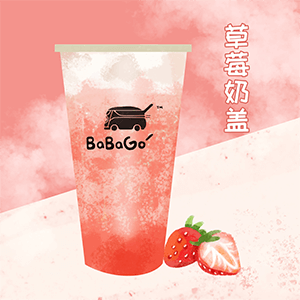
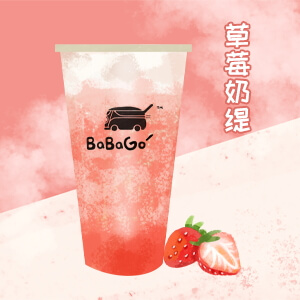
添加在线客服,图片替换

diff --git a/index.html b/index.html
@@ -198,16 +198,14 @@
 						<!-- Owl-Carousel -->
 						<div id="owl-demo" class="owl-carousel owl-theme text-center agileinfo-gallery-row">
 							<a class="item g1">
-								<img class="lazyOwl img-fluid" src="images/brand/babago.jpg" title="Ice Cream"
-									alt="" />
+								<img class="lazyOwl img-fluid" src="images/brand/babago.jpg" title="Ice Cream" alt="" />
 							</a>
 							<a class="item g1">
 								<img class="lazyOwl img-fluid" src="images/brand/partner.jpg" title="Ice Cream"
 									alt="" />
 							</a>
 							<a class="item g1">
-								<img class="lazyOwl img-fluid" src="images/brand/way.jpg" title="Ice Cream"
-									alt="" />
+								<img class="lazyOwl img-fluid" src="images/brand/way.jpg" title="Ice Cream" alt="" />
 							</a>
 						</div>
 					</div>
@@ -255,7 +253,8 @@
 					<div class="d-flex box-b  py-5 px-3">
 						<div class="col-9  text-right">
 							<h3>标准化训练制度体系</h3>
-							<p class="mt-3 text-left"> 强大的企业文化作为核心，标准化的训练模式，严格训练要求，从员工的形象，服务礼仪、品牌管理、产品制作、店铺销售技巧等一系列培训。</p>
+							<p class="mt-3 text-left"> 强大的企业文化作为核心，标准化的训练模式，严格训练要求，从员工的形象，服务礼仪、品牌管理、产品制作、店铺销售技巧等一系列培训。
+							</p>
 
 						</div>
 						<div class="col-3">
@@ -621,15 +620,18 @@
 				<ul>
 					<li>
 						<p class="text-white">
-							<i class="fas fa-location-arrow mr-2"></i>西安市莲湖区唐延路北段 20号太和时代广场 D座9楼08室</p>
+							<i class="fas fa-location-arrow mr-2"></i>西安市莲湖区唐延路北段 20号太和时代广场 D座9楼08室
+						</p>
 					</li>
 					<li class="mx-4">
 						<p class="text-white">
-							<i class="fas fa-phone mr-2"></i>13818054673</p>
+							<i class="fas fa-phone mr-2"></i>13818054673
+						</p>
 					</li>
 					<li class="mx-4">
 						<p class="text-white">
-							<i class="fab fa-weixin mr-2"></i>18865523180</p>
+							<i class="fab fa-weixin mr-2"></i>18865523180
+						</p>
 					</li>
 					<!-- <li>
 						<p class="text-white">
@@ -646,8 +648,8 @@
 
 	<!-- copyright -->
 	<div class="w3l-copy text-center py-4">
-		<p class="text-white">Copyright &copy; 2020. 版权所有：西安购吧餐饮管理有限公司 陕ICP备19008754号 技术支持： <a target="_blank"
-				href="http://www.ymxxkj.net/" style="color: #9bc571;">山东鱼鸣信息科技有限公司</a></p>
+		<p class="text-white">Copyright &copy; 2020. 版权所有：西安购吧餐饮管理有限公司 陕ICP备19008754号 <!-- 技术支持： <a target="_blank"
+				href="http://www.ymxxkj.net/" style="color: #9bc571;">山东鱼鸣信息科技有限公司</a></p>  -->
 	</div>
 	<!-- //copyright -->
 
@@ -772,7 +774,17 @@
 	<!-- Necessary-JavaScript-File-For-Bootstrap -->
 
 	<!-- //Js files -->
-
+	<script>
+		(function (w, d, n, a, j) {
+			w[n] = w[n] || function () {
+				(w[n].a = w[n].a || []).push(arguments);
+			};
+			j = d.createElement('script');
+			j.async = true;
+			j.src = 'https://qiyukf.com/script/798b96d0f71d2912b253d292e7cb330b.js';
+			d.body.appendChild(j);
+		})(window, document, 'ysf');
+	</script>
 </body>
 
 </html>

diff --git a/specials.html b/specials.html
@@ -290,7 +290,7 @@
 								<img src="images/production/21.png" alt=" " class="img-fluid" />
 								<div class="proj_gallery_grid1_pos">
 									<h3>BaBaGo</h3>
-									<p>芒果奶盖</p>
+									<p>芒果奶缇</p>
 								</div>
 							</div>
 						</a>
@@ -301,7 +301,7 @@
 								<img src="images/production/19.png" alt=" " class="img-fluid" />
 								<div class="proj_gallery_grid1_pos">
 									<h3>BaBaGo</h3>
-									<p>草莓奶盖</p>
+									<p>草莓奶缇</p>
 								</div>
 							</div>
 						</a>
@@ -313,7 +313,7 @@
 								<img src="images/production/16.png" alt=" " class="img-fluid" />
 								<div class="proj_gallery_grid1_pos">
 									<h3>BaBaGo</h3>
-									<p>葡萄奶盖</p>
+									<p>葡萄奶缇</p>
 								</div>
 							</div>
 						</a>
@@ -403,8 +403,8 @@
 
 	<!-- copyright -->
 	<div class="w3l-copy text-center py-4">
-		<p class="text-white">Copyright &copy; 2020. 版权所有：西安购吧餐饮管理有限公司 陕ICP备19008754号 技术支持： <a target="_blank"
-				href="http://www.ymxxkj.net/" style="color: #9bc571;">山东鱼鸣信息科技有限公司</a></p>
+		<p class="text-white">Copyright &copy; 2020. 版权所有：西安购吧餐饮管理有限公司 陕ICP备19008754号 <!-- 技术支持： <a target="_blank"
+				href="http://www.ymxxkj.net/" style="color: #9bc571;">山东鱼鸣信息科技有限公司</a></p>  -->
 	</div>
 	<!-- //copyright -->
 
@@ -502,7 +502,17 @@
 	<!-- Necessary-JavaScript-File-For-Bootstrap -->
 
 	<!-- //Js files -->
-
+	<script>
+		(function (w, d, n, a, j) {
+			w[n] = w[n] || function () {
+				(w[n].a = w[n].a || []).push(arguments);
+			};
+			j = d.createElement('script');
+			j.async = true;
+			j.src = 'https://qiyukf.com/script/798b96d0f71d2912b253d292e7cb330b.js';
+			d.body.appendChild(j);
+		})(window, document, 'ysf');
+	</script>
 </body>
 
 </html>

diff --git a/about.html b/about.html
@@ -506,8 +506,8 @@
 
 	<!-- copyright -->
 	<div class="w3l-copy text-center py-4">
-		<p class="text-white">Copyright &copy; 2020. 版权所有：西安购吧餐饮管理有限公司 陕ICP备19008754号 技术支持： <a target="_blank"
-				href="http://www.ymxxkj.net/" style="color: #9bc571;">山东鱼鸣信息科技有限公司</a></p>
+		<p class="text-white">Copyright &copy; 2020. 版权所有：西安购吧餐饮管理有限公司 陕ICP备19008754号 <!-- 技术支持： <a target="_blank"
+				href="http://www.ymxxkj.net/" style="color: #9bc571;">山东鱼鸣信息科技有限公司</a></p>  -->
 	</div>
 	<!-- //copyright -->
 
@@ -596,7 +596,17 @@
 	<!-- Necessary-JavaScript-File-For-Bootstrap -->
 
 	<!-- //Js files -->
-
+	<script>
+		(function (w, d, n, a, j) {
+			w[n] = w[n] || function () {
+				(w[n].a = w[n].a || []).push(arguments);
+			};
+			j = d.createElement('script');
+			j.async = true;
+			j.src = 'https://qiyukf.com/script/798b96d0f71d2912b253d292e7cb330b.js';
+			d.body.appendChild(j);
+		})(window, document, 'ysf');
+	</script>
 </body>
 
 </html>

diff --git a/contact.html b/contact.html
@@ -208,8 +208,8 @@
 
 	<!-- copyright -->
 	<div class="w3l-copy text-center py-4">
-		<p class="text-white">Copyright &copy; 2020. 版权所有：西安购吧餐饮管理有限公司 陕ICP备19008754号 技术支持： <a target="_blank"
-				href="http://www.ymxxkj.net/" style="color: #9bc571;">山东鱼鸣信息科技有限公司</a></p>
+		<p class="text-white">Copyright &copy; 2020. 版权所有：西安购吧餐饮管理有限公司 陕ICP备19008754号 <!-- 技术支持： <a target="_blank"
+				href="http://www.ymxxkj.net/" style="color: #9bc571;">山东鱼鸣信息科技有限公司</a></p>  -->
 	</div>
 	<!-- //copyright -->
 
@@ -261,7 +261,17 @@
 	<!-- Necessary-JavaScript-File-For-Bootstrap -->
 
 	<!-- //Js files -->
-
+	<script>
+		(function (w, d, n, a, j) {
+			w[n] = w[n] || function () {
+				(w[n].a = w[n].a || []).push(arguments);
+			};
+			j = d.createElement('script');
+			j.async = true;
+			j.src = 'https://qiyukf.com/script/798b96d0f71d2912b253d292e7cb330b.js';
+			d.body.appendChild(j);
+		})(window, document, 'ysf');
+	</script>
 </body>
 
 </html>

diff --git a/menu.html b/menu.html
@@ -739,8 +739,8 @@
 
 	<!-- copyright -->
 	<div class="w3l-copy text-center py-4">
-		<p class="text-white">Copyright &copy; 2020. 版权所有：西安购吧餐饮管理有限公司 陕ICP备19008754号 技术支持： <a target="_blank"
-				href="http://www.ymxxkj.net/" style="color: #9bc571;">山东鱼鸣信息科技有限公司</a></p>
+		<p class="text-white">Copyright &copy; 2020. 版权所有：西安购吧餐饮管理有限公司 陕ICP备19008754号 <!-- 技术支持： <a target="_blank"
+				href="http://www.ymxxkj.net/" style="color: #9bc571;">山东鱼鸣信息科技有限公司</a></p>  -->
 	</div>
 	<!-- //copyright -->
 
@@ -791,7 +791,17 @@
 	<!-- Necessary-JavaScript-File-For-Bootstrap -->
 
 	<!-- //Js files -->
-
+	<script>
+		(function (w, d, n, a, j) {
+			w[n] = w[n] || function () {
+				(w[n].a = w[n].a || []).push(arguments);
+			};
+			j = d.createElement('script');
+			j.async = true;
+			j.src = 'https://qiyukf.com/script/798b96d0f71d2912b253d292e7cb330b.js';
+			d.body.appendChild(j);
+		})(window, document, 'ysf');
+	</script>
 </body>
 
 </html>

diff --git a/shop.html b/shop.html
@@ -189,8 +189,8 @@
 
 	<!-- copyright -->
 	<div class="w3l-copy text-center py-4">
-		<p class="text-white">Copyright &copy; 2020. 版权所有：西安购吧餐饮管理有限公司 陕ICP备19008754号 技术支持： <a target="_blank"
-				href="http://www.ymxxkj.net/" style="color: #9bc571;">山东鱼鸣信息科技有限公司</a></p>
+		<p class="text-white">Copyright &copy; 2020. 版权所有：西安购吧餐饮管理有限公司 陕ICP备19008754号 <!-- 技术支持： <a target="_blank"
+				href="http://www.ymxxkj.net/" style="color: #9bc571;">山东鱼鸣信息科技有限公司</a></p>  -->
 	</div>
 	<!-- //copyright -->
 
@@ -288,7 +288,17 @@
 	<!-- Necessary-JavaScript-File-For-Bootstrap -->
 
 	<!-- //Js files -->
-
+	<script>
+		(function (w, d, n, a, j) {
+			w[n] = w[n] || function () {
+				(w[n].a = w[n].a || []).push(arguments);
+			};
+			j = d.createElement('script');
+			j.async = true;
+			j.src = 'https://qiyukf.com/script/798b96d0f71d2912b253d292e7cb330b.js';
+			d.body.appendChild(j);
+		})(window, document, 'ysf');
+	</script>
 </body>
 
 </html>

diff --git a/css/style.css b/css/style.css
@@ -92,7 +92,7 @@ a:hover {
   text-decoration: none;
   position: fixed;
   bottom: 24px;
-  right: 3%;
+  right: 5%;
   overflow: hidden;
   z-index: 999;
   width: 42px;
@@ -112,6 +112,10 @@ a:hover {
   opacity: 0;
   -moz-opacity: 0;
   filter: alpha(opacity=0);
+}
+
+.pogoSlider-progressBar{
+  display: none!important;
 }
 
 /*-- //bottom-to-top --*/
